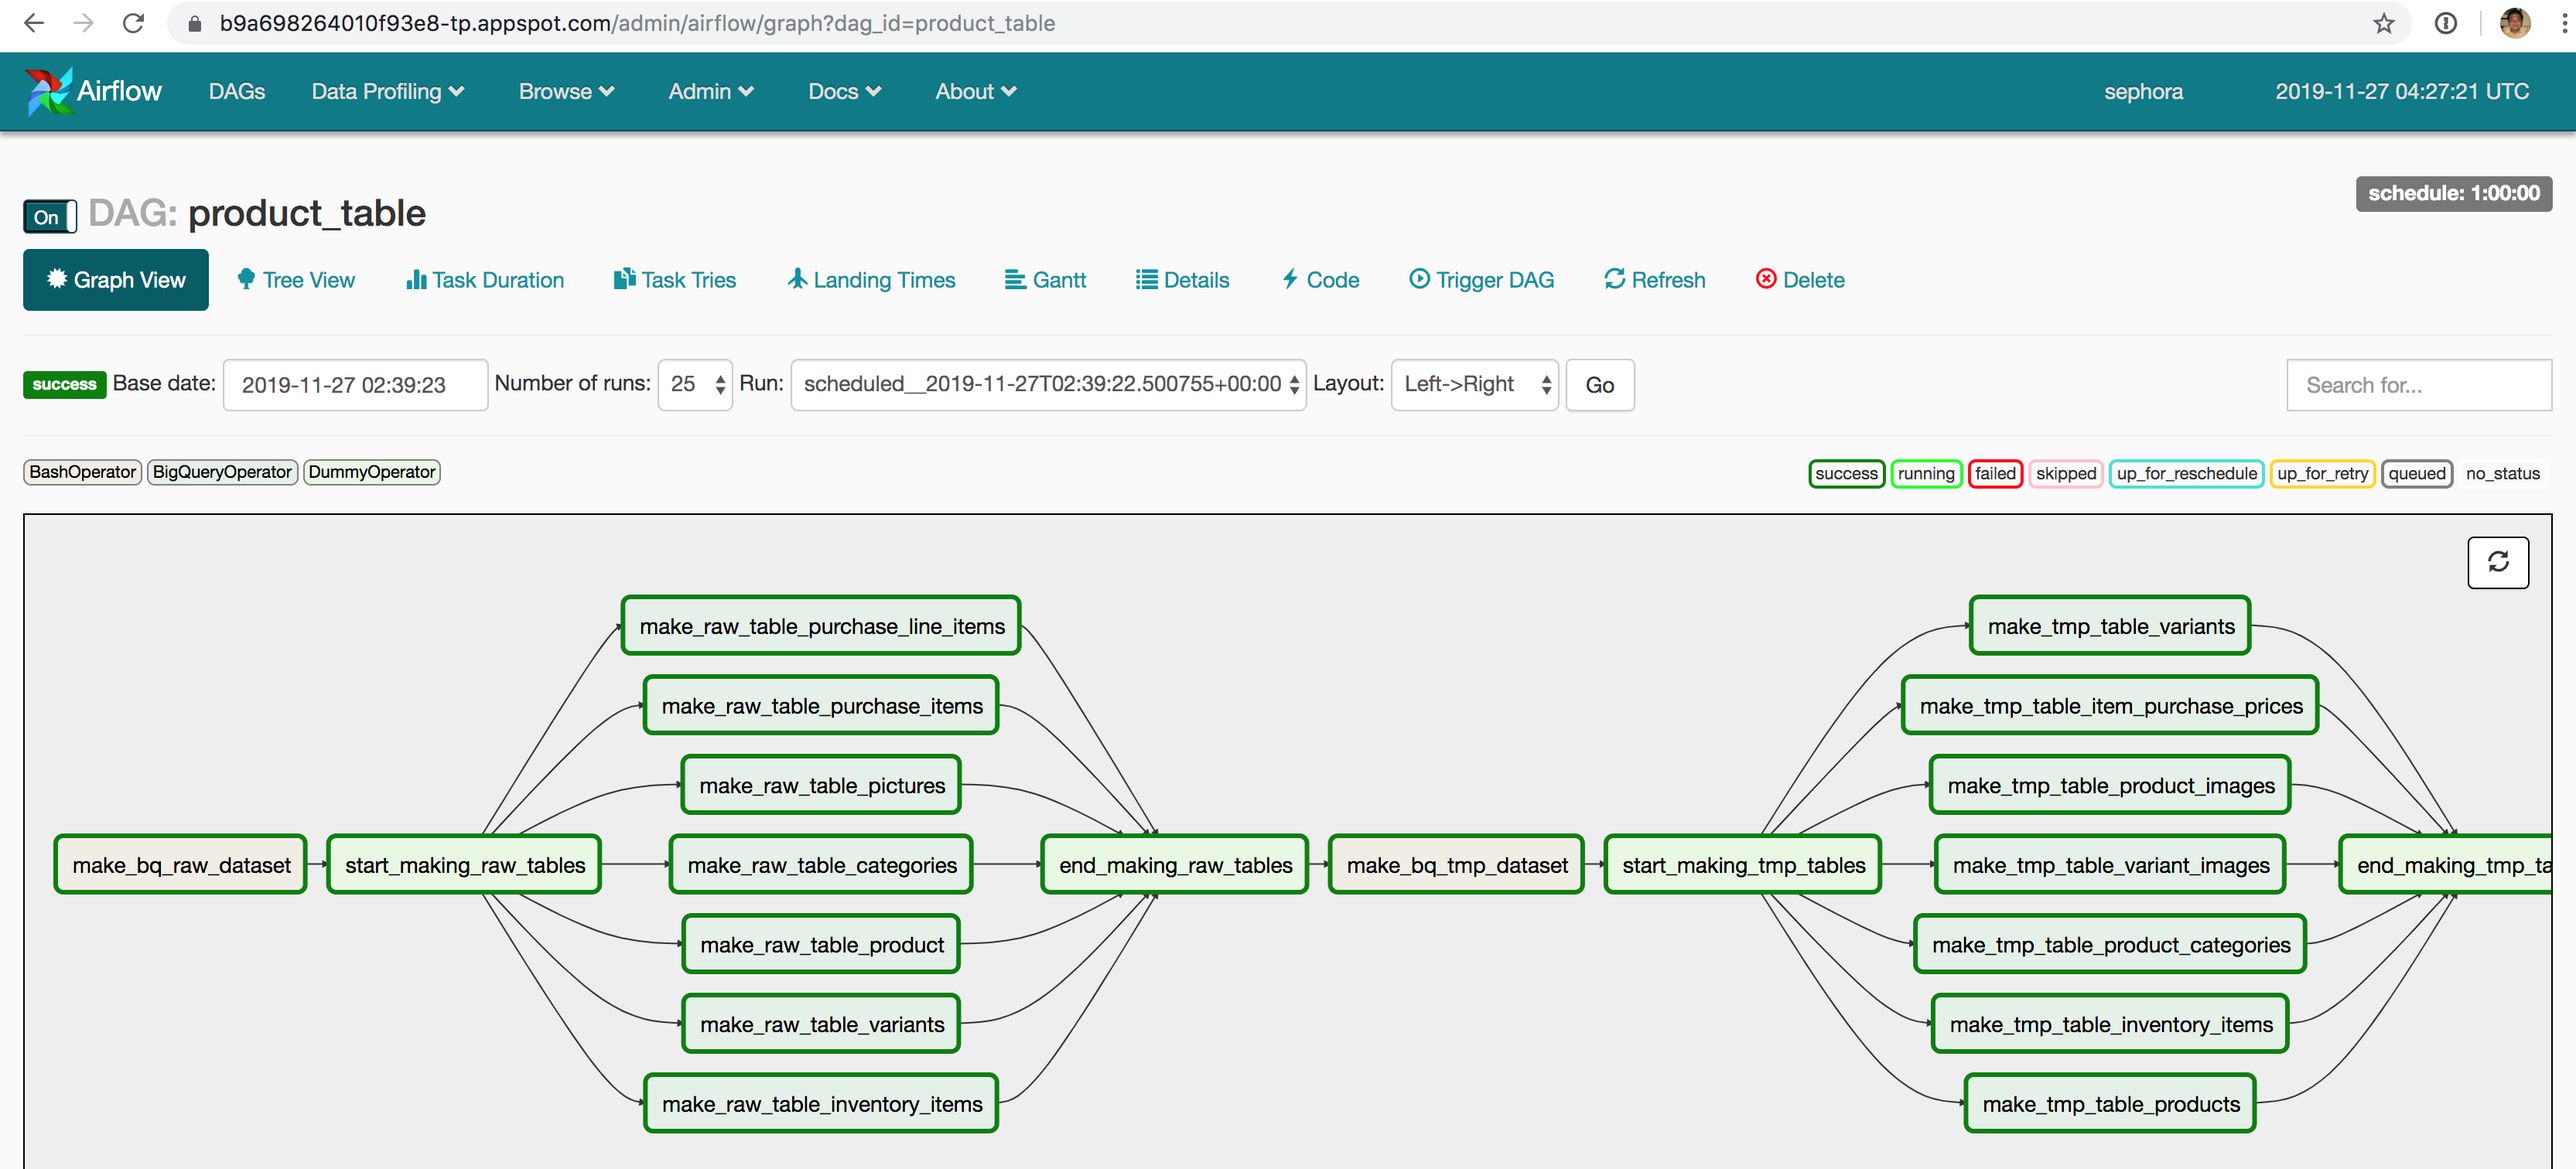
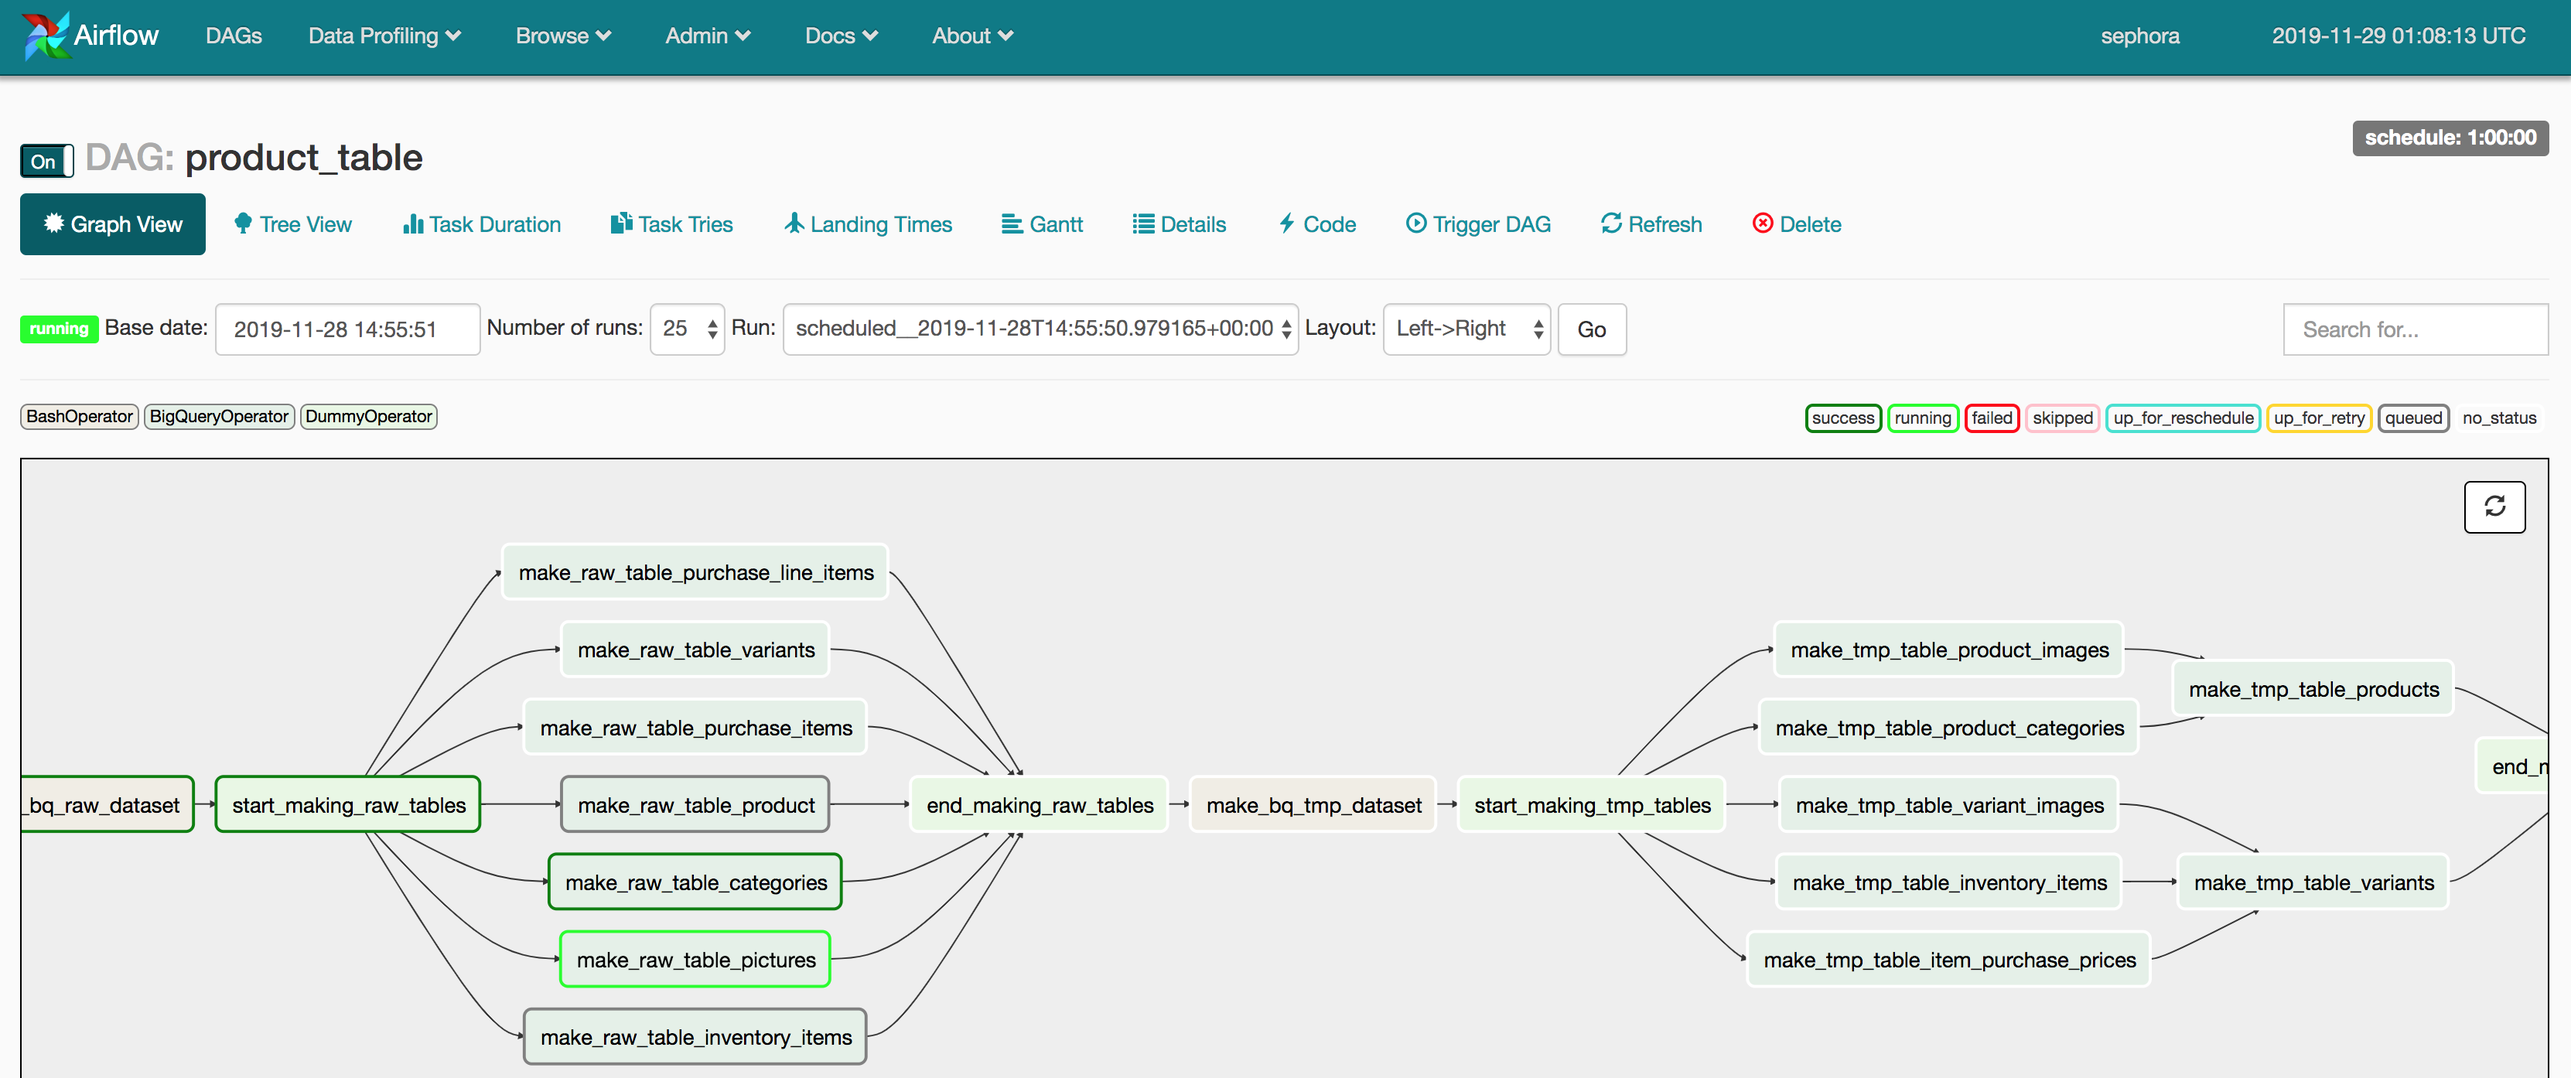
Modified README.md for the new dependency management feature.

diff --git a/dags/product.py b/dags/product.py
@@ -42,6 +42,9 @@ def read_sql_from_gcs(folder_name, bucket_name):
 # that translates to
 # 'tmp/item_purchase_prices.sql' >> 'tmp/variants.sql'
 # 'tmp/variant_images.sql' >> 'tmp/variants.sql'
+#
+# this combines the list of files from the 'tmp/' directory,
+# and the dependencies declaration in 'dependencies.yml' file
 def dependency_arrays(sql_statements_list, dep_dictionary):
     start_making = 'start_making'
     end_making = 'end_making'

diff --git a/README.md b/README.md
@@ -27,7 +27,9 @@ Pictures below shows the resulting DAGs.
 
 ![Dag](./docs/images/dag.png)
 
-Airflow webserver instance can be accessed from [here](https://b9a698264010f93e8-tp.appspot.com/admin/).
+Airflow webserver instance can be accessed from [here](https://z797bc688c6f9ca68-tp.appspot.com/admin/).
+
+Dependencies in the `tmp/` folder is managed using [this file](https://github.com/devacto/sephora/blob/master/dags/dependencies.yml).
 
 #### 1.3. API
 
@@ -84,3 +86,7 @@ The DAG building script will read any SQL files in the `raw`, `tmp`, and `final`
 #### 2.2. API Development
 
 The API developed shows suitable status codes.
+
+#### 2.3. Constructing dependencies graph from yaml file.
+
+We have also shown dependencies management using the yaml file. Our dependency management algorithm will also take into account all the files in the `tmp/` folder even if they are not declared in the yaml file.
